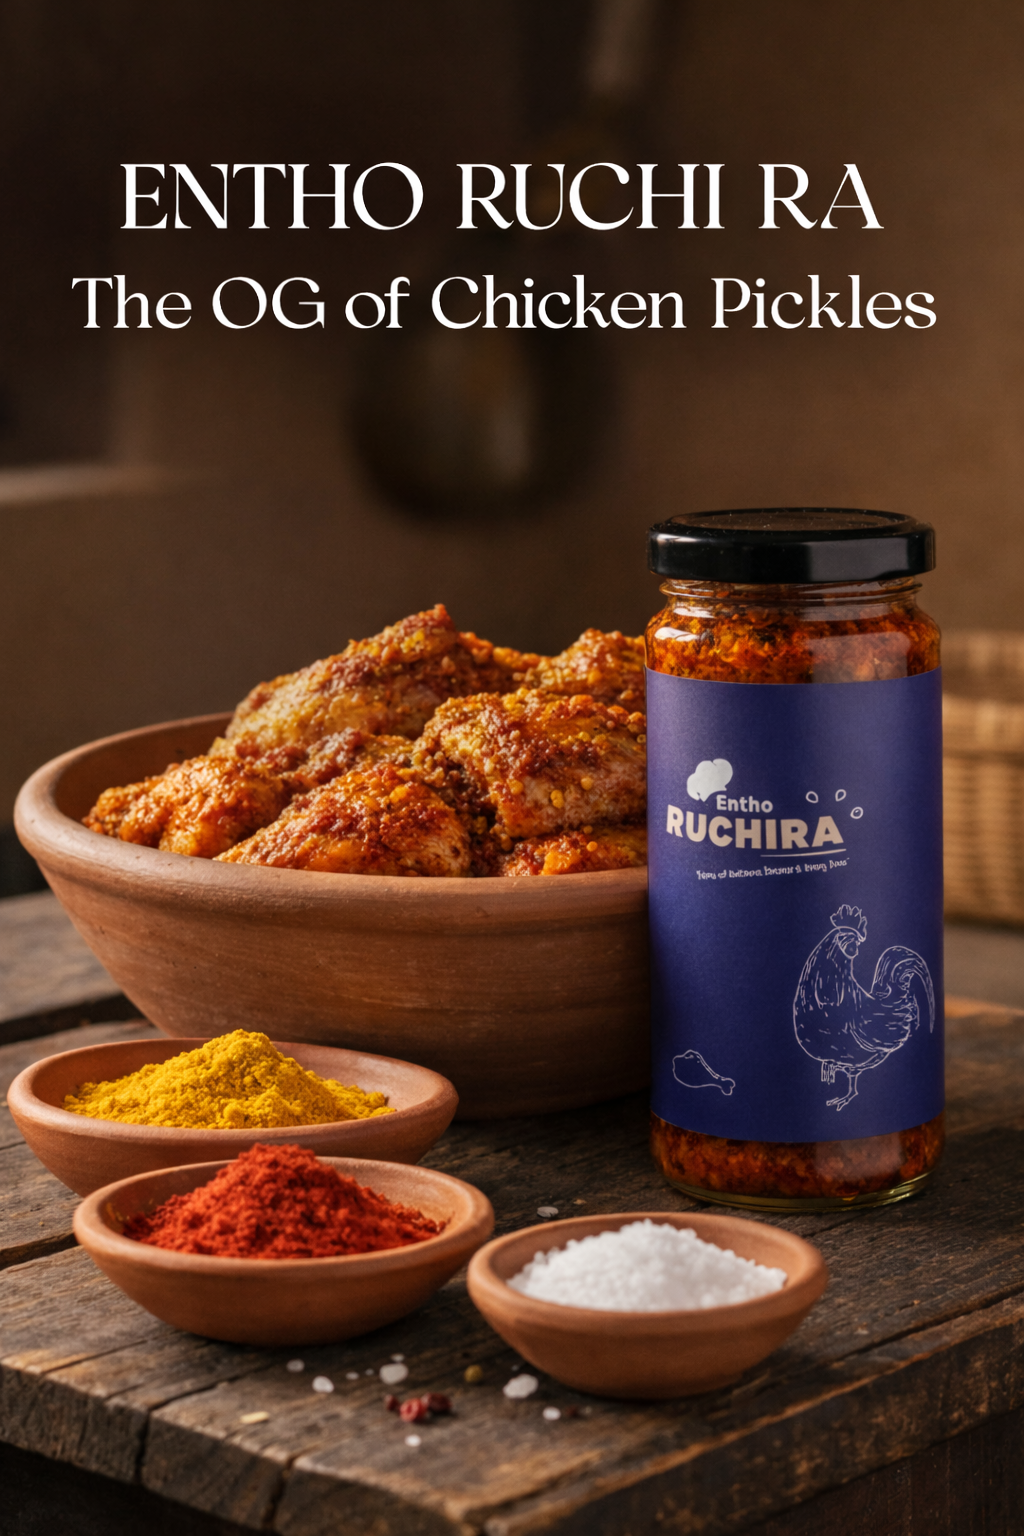
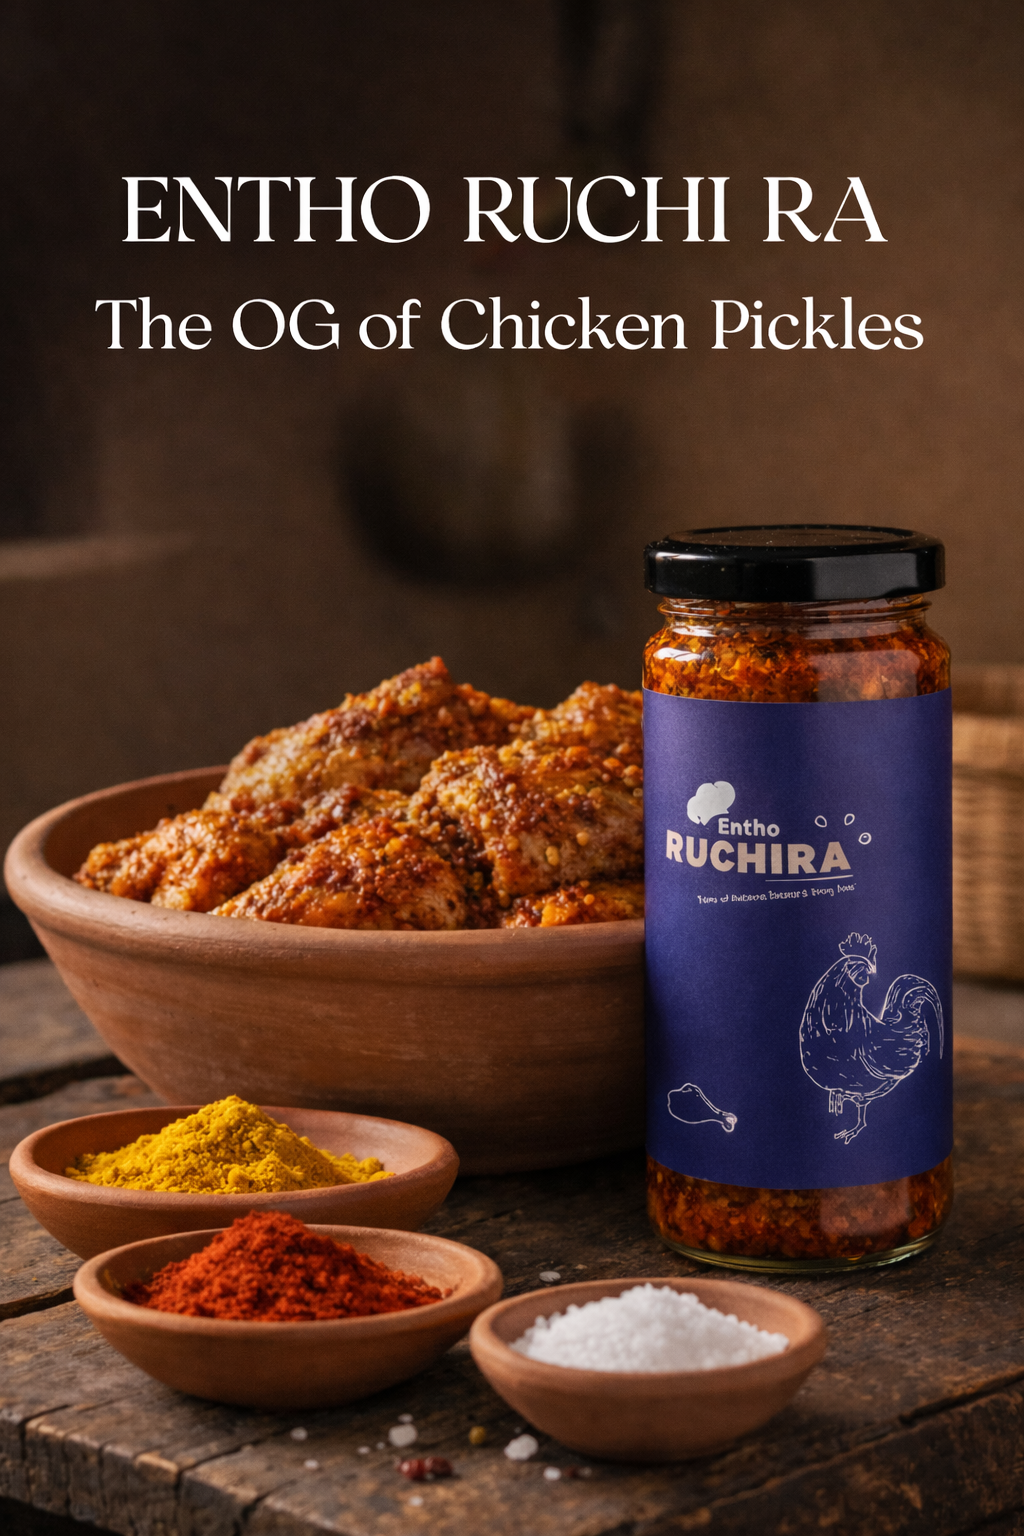
hero images resolved

diff --git a/src/components/Hero.jsx b/src/components/Hero.jsx
@@ -3,9 +3,9 @@ import React, { useState, useEffect } from "react";
 const Hero = () => {
   const desktopImages = [
     "/assets/backgroundImg.png",
-    "/assets/backgroundImg1.png",
     "/assets/backgroundImg2.png",
     "/assets/backgroundImg3.png",
+    "/assets/backgroundImg4.png",
   ];
 
   const mobileImages = [
@@ -38,7 +38,7 @@ const Hero = () => {
       <img
         src={images[current]}
         alt="hero"
-        className="w-full object-cover
+        className="w-full object-fill
         h-[65vh] sm:h-[70vh] md:h-[85vh] lg:h-screen"
       />
 
